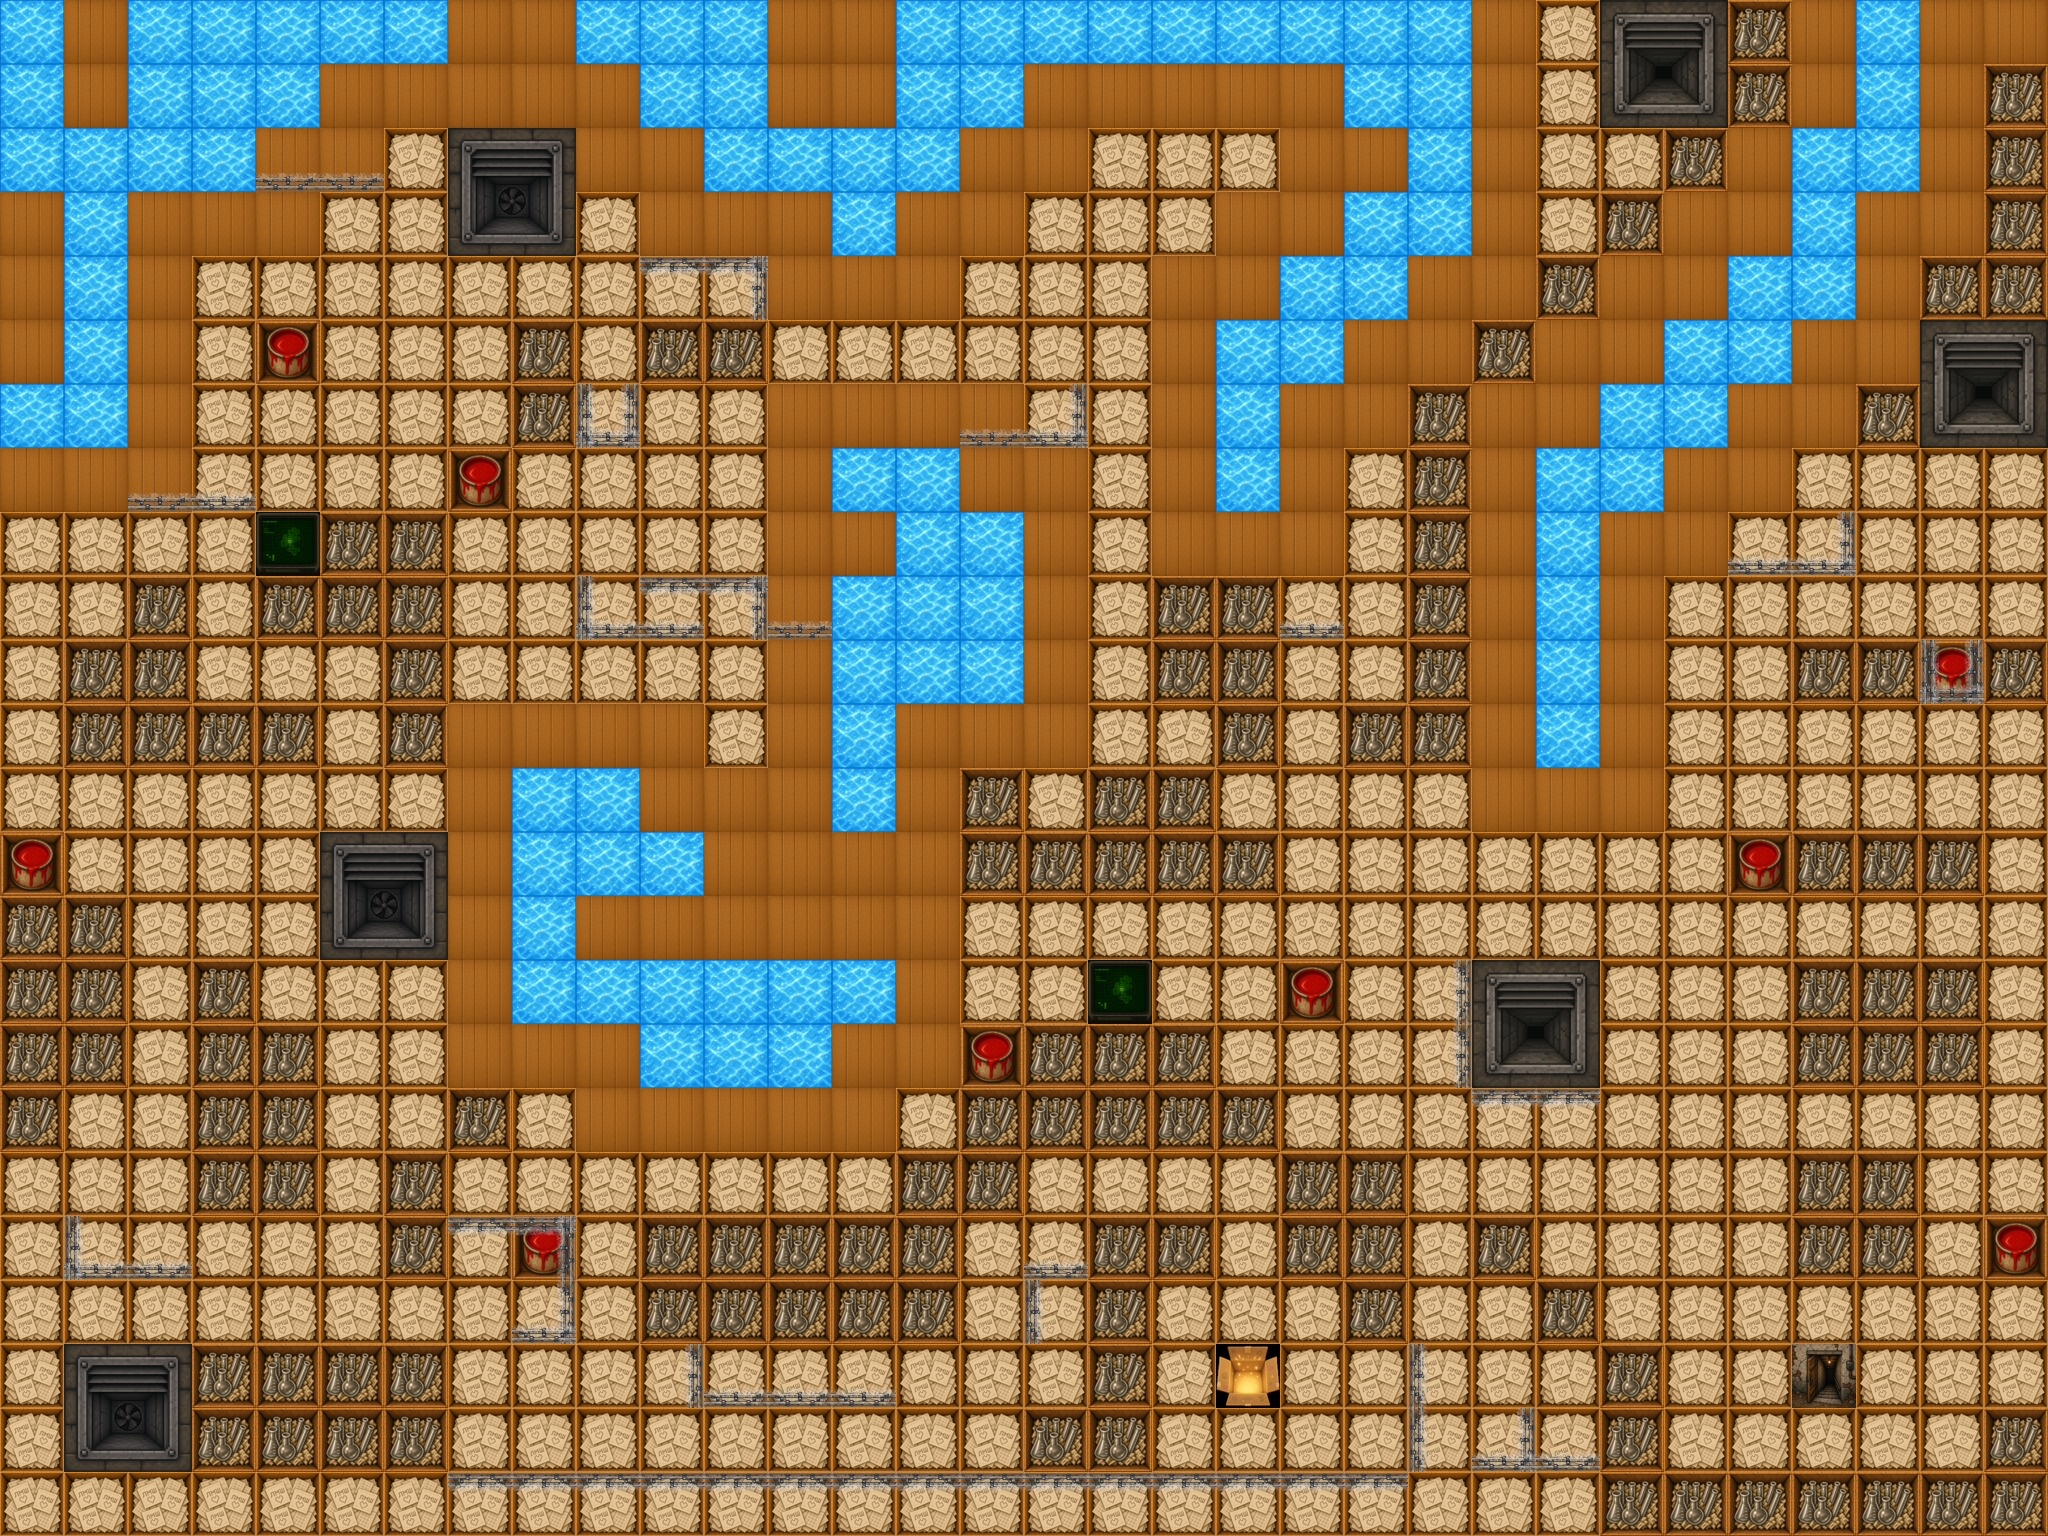
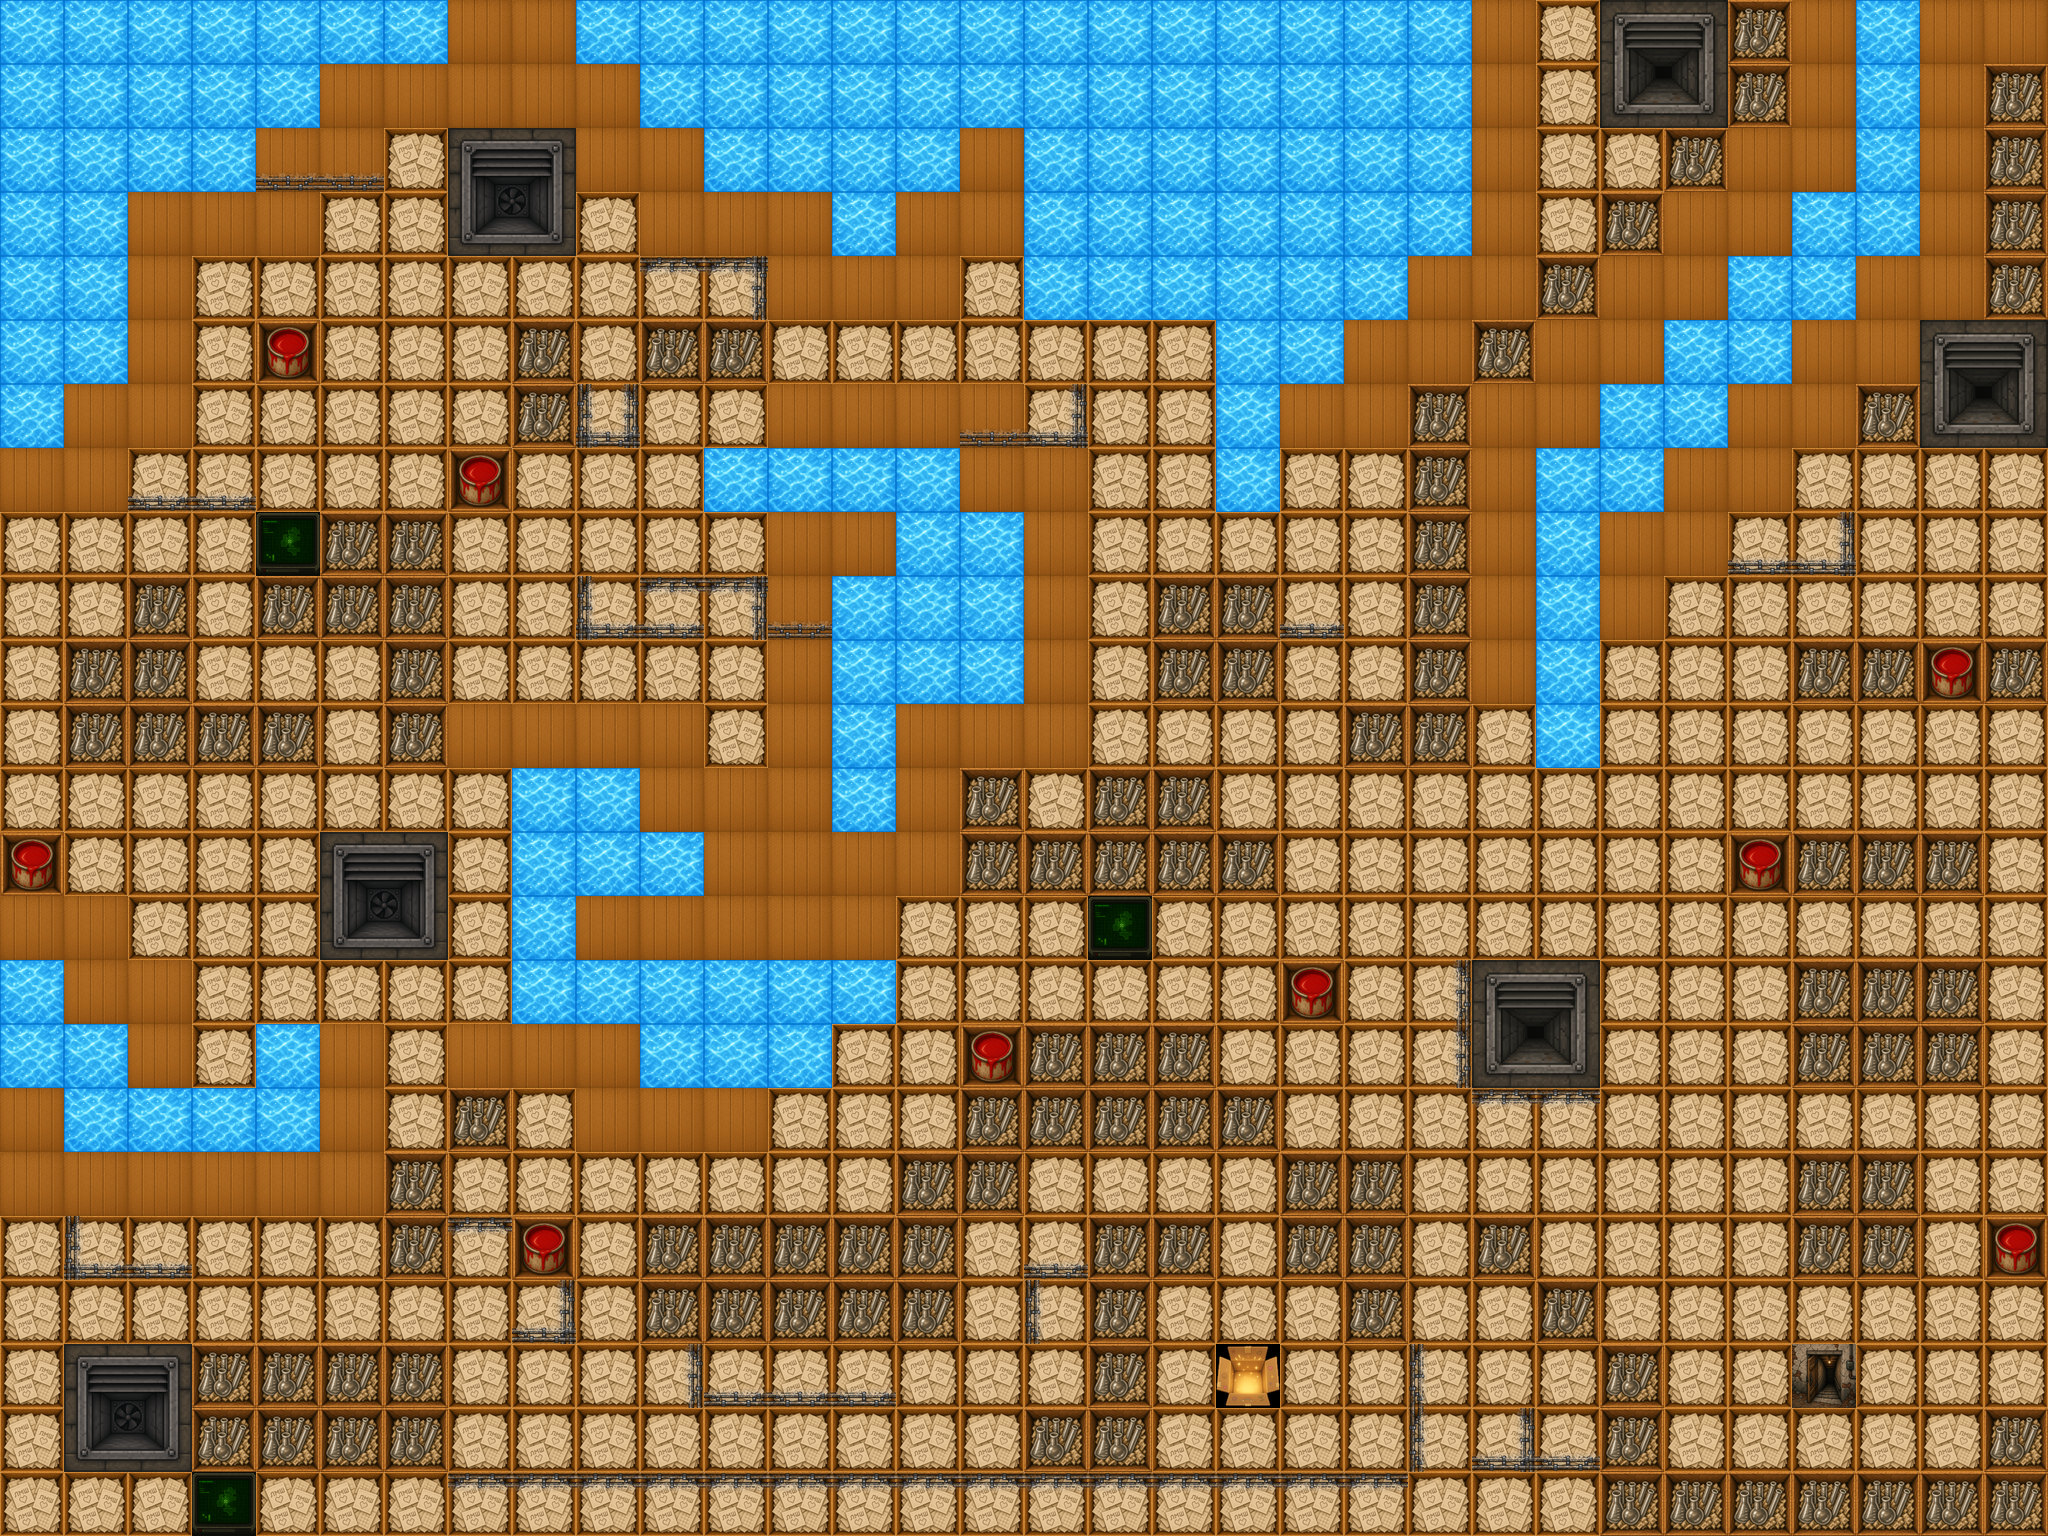
fix: speed up map sync preview generation

diff --git a/src/generate.py b/src/generate.py
@@ -1,10 +1,17 @@
-from PIL import Image
 import json
+from functools import lru_cache
+from pathlib import Path
+
+from PIL import Image
 
 
 TILE_SIZE = 64
 
+ROOT = Path(__file__).resolve().parents[1]
+SOURCE_MAP = ROOT / "src" / "assets" / "map.json"
+OUTPUT_MAP = ROOT / "out" / "map.png"
 TEXTURE_DIR = "art-camp"
+TEXTURE_ROOT = ROOT / "src" / "assets" / "textures" / TEXTURE_DIR
 
 TEXTURES = {
     0: "water.png",
@@ -18,6 +25,17 @@ TEXTURES = {
     8: "magic-box.png",
     9: "vent-out.png",
 }
+
+WALL_TEXTURE_LOOKUP = {0: "up", 1: "right", 2: "down", 3: "left"}
+
+
+@lru_cache(maxsize=None)
+def load_texture(filename: str, width: int, height: int):
+    with Image.open(TEXTURE_ROOT / filename) as texture:
+        return texture.convert("RGBA").resize(
+            (width, height),
+            Image.Resampling.LANCZOS,
+        )
 
 
 class Map:
@@ -41,7 +59,7 @@ class Map:
 
 
 def main():
-    map2d = Map("src/assets/map.json")
+    map2d = Map(SOURCE_MAP)
 
     img = Image.new(
         "RGBA", (map2d.width * TILE_SIZE, map2d.height * TILE_SIZE), (21, 25, 35, 255)
@@ -52,11 +70,8 @@ def main():
             tile = map2d.tiles[i * map2d.width + j]
             if tile in [7, 9]:
                 continue
-            texture = Image.open(
-                f"src/assets/textures/{TEXTURE_DIR}/{TEXTURES[tile]}"
-            ).convert("RGBA")
-            texture = texture.resize((TILE_SIZE, TILE_SIZE))
-            img.paste(texture, (j * TILE_SIZE, i * TILE_SIZE))
+            texture = load_texture(TEXTURES[tile], TILE_SIZE, TILE_SIZE)
+            img.alpha_composite(texture, (j * TILE_SIZE, i * TILE_SIZE))
 
     for i in range(map2d.height - 1):
         for j in range(map2d.width - 1):
@@ -67,24 +82,22 @@ def main():
             if tile1 in [7, 9] and all(
                 t == tile1 for t in [tile1, tile2, tile3, tile4]
             ):
-                texture = Image.open(
-                    f"src/assets/textures/{TEXTURE_DIR}/{TEXTURES[tile1]}"
-                ).convert("RGBA")
-                texture = texture.resize((TILE_SIZE * 2, TILE_SIZE * 2))
-                img.paste(texture, (j * TILE_SIZE, i * TILE_SIZE))
+                texture = load_texture(TEXTURES[tile1], TILE_SIZE * 2, TILE_SIZE * 2)
+                img.alpha_composite(texture, (j * TILE_SIZE, i * TILE_SIZE))
 
     for wall in map2d.walls:
         tile_i, wall_i = wall
         i = tile_i // map2d.width
         j = tile_i % map2d.width
-        WALL_TEXTURE_LOOKUP = {0: "up", 1: "right", 2: "down", 3: "left"}
-        texture = Image.open(
-            f"src/assets/textures/{TEXTURE_DIR}/wall-{WALL_TEXTURE_LOOKUP[wall_i]}.png"
-        ).convert("RGBA")
-        texture = texture.resize((TILE_SIZE, TILE_SIZE))
-        img.paste(texture, (j * TILE_SIZE, i * TILE_SIZE), texture)
+        texture = load_texture(
+            f"wall-{WALL_TEXTURE_LOOKUP[wall_i]}.png",
+            TILE_SIZE,
+            TILE_SIZE,
+        )
+        img.alpha_composite(texture, (j * TILE_SIZE, i * TILE_SIZE))
 
-    with open("out/map.png", "wb") as out:
+    OUTPUT_MAP.parent.mkdir(parents=True, exist_ok=True)
+    with open(OUTPUT_MAP, "wb") as out:
         img.save(out, "PNG")
 
 

diff --git a/src/sync_server.py b/src/sync_server.py
@@ -15,6 +15,7 @@ MIN_TILE_TYPE = 0
 MAX_TILE_TYPE = 9
 
 SOURCE_MAP = WORK_DIR / "src" / "assets" / "map.json"
+EDITOR_MAP = WORK_DIR / "map-editor" / "src" / "assets" / "map.json"
 GENERATED_MAP = WORK_DIR / "out" / "map.png"
 GAME_MAP = GAME_DIR / "public" / "map.json"
 GAME_IMAGE = GAME_DIR / "src" / "assets" / "map.png"
@@ -105,6 +106,8 @@ class SyncHandler(BaseHTTPRequestHandler):
                 json.dumps(map_data, ensure_ascii=False, separators=(",", ":")),
                 encoding="utf-8",
             )
+            EDITOR_MAP.parent.mkdir(parents=True, exist_ok=True)
+            shutil.copyfile(SOURCE_MAP, EDITOR_MAP)
 
             subprocess.run([sys.executable, "src/generate.py"], cwd=WORK_DIR, check=True)
 
@@ -118,6 +121,7 @@ class SyncHandler(BaseHTTPRequestHandler):
 
             self.respond_json({
                 "ok": True,
+                "editorMapJson": str(EDITOR_MAP),
                 "mapJson": str(GAME_MAP),
                 "mapImage": str(GAME_IMAGE),
             })